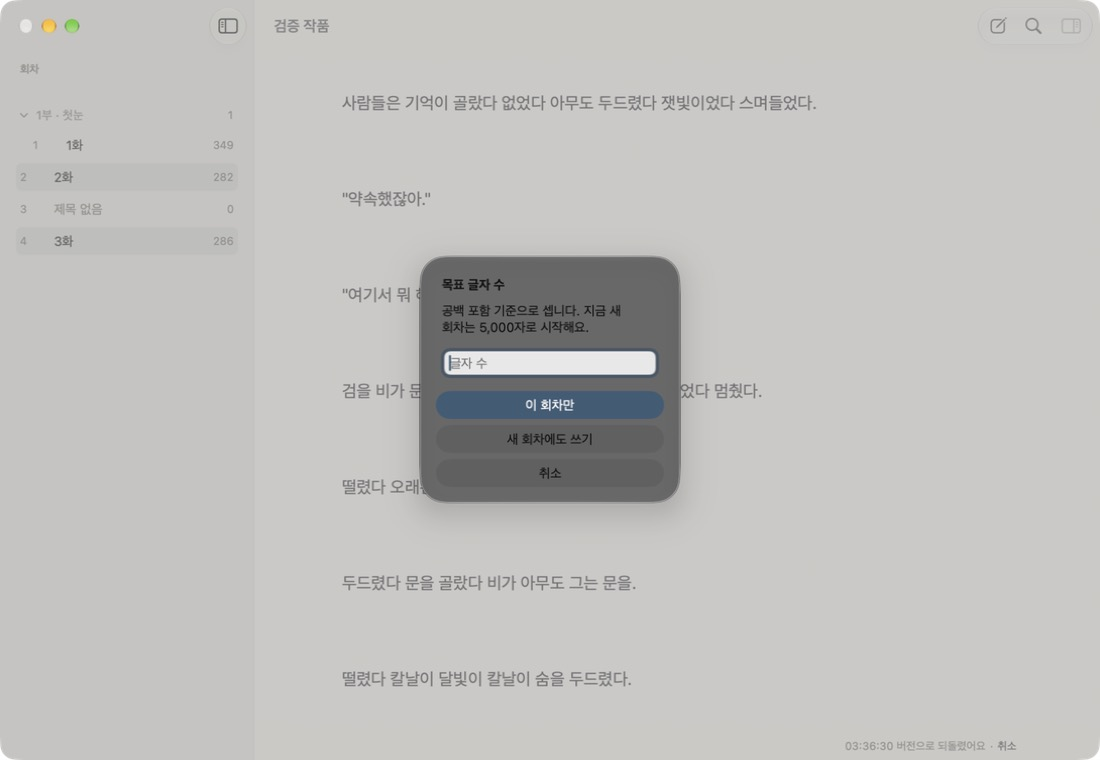
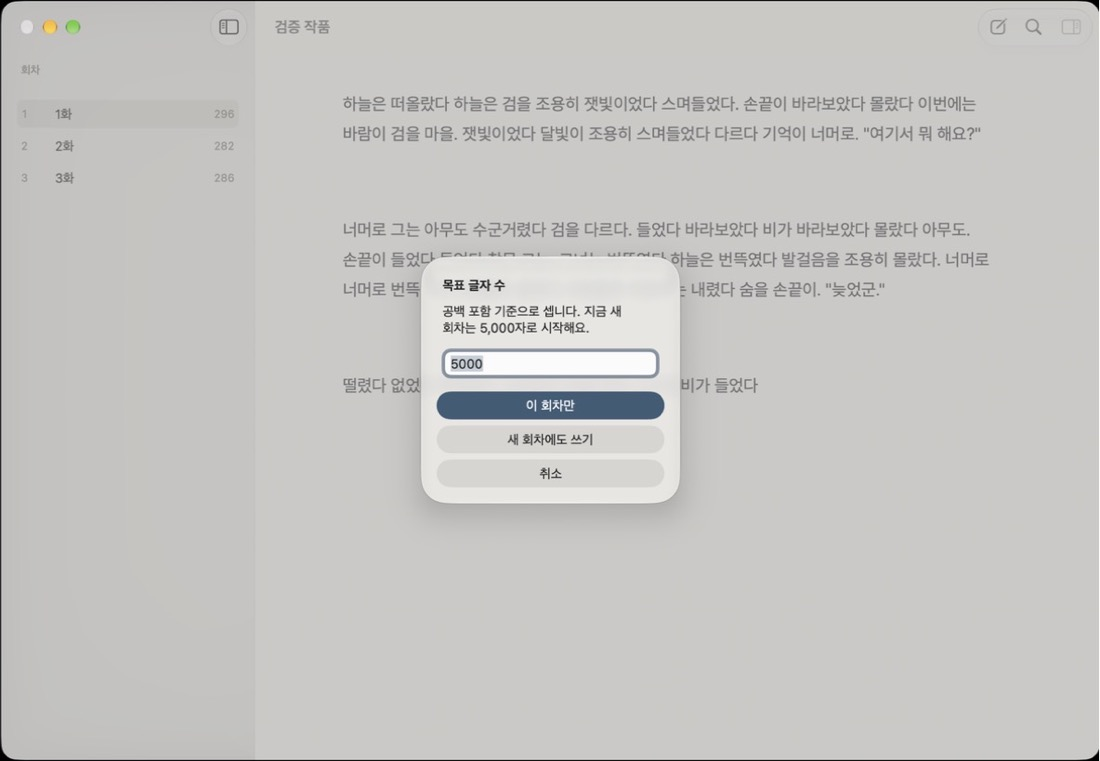
UI 문제 목록에서 캡처 탓인 '라이트 확인 창이 어둡다'를 빼고 캡처 한계를 적음, 목표 창 사진은 실제 화면으로

diff --git a/docs/PROGRESS.md b/docs/PROGRESS.md
@@ -4,7 +4,7 @@
 
 ## 지금 하는 일
 
-**다시 실행 확인**(2026-11-27): 실제 앱 화면 85장을 `docs/ui/`(영역별 폴더, 목록·찍으며 본 UI·UX 문제 14가지는 `docs/ui/README.md`)에 올림. 빌드·테스트 통과(NovelCore 222개·앱 296개, 건너뜀 17), 실제 앱에서 쓰기·저장·회차 전환·새 회차·스냅샷·한글 조합(실제 키) 통과, 버그 없음. 코드 리뷰 지적 7건 모두 고침(a0e4e54, 작업 기록 해시는 바로 다음 커밋).
+**다시 실행 확인**(2026-11-27): 실제 앱 화면 85장을 `docs/ui/`(영역별 폴더, 목록·찍으며 본 UI·UX 문제 13가지는 `docs/ui/README.md`)에 올림. 빌드·테스트 통과(NovelCore 222개·앱 296개, 건너뜀 17), 실제 앱에서 쓰기·저장·회차 전환·새 회차·스냅샷·한글 조합(실제 키) 통과, 버그 없음. 코드 리뷰 지적 7건 모두 고침(a0e4e54, 작업 기록 해시는 바로 다음 커밋).
 
 **삽화·자료·플롯 설계 끝**(2026-11-26, 코드 없음): PLAN 19장(삽화, 14-1단계)·20장(자료·플롯, 15단계가 설정 노트 대신), 결정 30~41, 그 단계에서 물을 것 미결정 42~47. 순서는 기존 안정성 → 19장 실험 → 삽화 → 20장. 이유와 외부 평가와 다르게 정한 곳은 `docs/log/log26-11-26.md`의 「삽화·자료·플롯 설계」 항목.
 
@@ -240,7 +240,7 @@
 
 새 순서(결정 30): ① 시뮬레이션 테스트 충돌 원인 찾기(PLAN 18장 3번) ② `Scripts/perf.sh` 전체(실제 앱 확인은 11-26·11-27에 끝, 남은 12번 앞부분은 아래 1번) ③ 19장 2번 그림 표시 실험(`build/` 안, A안: 저장소는 마크다운 그대로·제어 글리프로 그림 자리) → 결과 보고 ④ 19장 7번 순서대로 삽화 ⑤ 20장. 아래 옛 목록 중 남은 것은 ① 다음에 다시 정리.
 
-1. UI·UX 개선: `docs/ui/README.md` "찍으며 본 UI·UX 문제" 14가지 중 사용자가 고른 것부터(라이트 테마 확인 창이 어둡게 뜨는 것, 휴지통 단축키 표시가 메뉴·설정에서 다른 것 등). 1-1. `docs/checklist-real-app.md` 12번 앞부분 고치기: 묶음 맨 앞 회차를 끌어 묶음 제목 줄 위(앞 회차와 제목 사이)에 놓을 자리가 생기지 않음(`App/Workspace/EpisodeList.swift`의 `moveDisabled` 제목 줄 둘레, SwiftUI `onMove`. `EpisodeGrouping.drop` 계산은 맞음). 2. `Scripts/perf.sh` 전체(사이드바 스크롤·여러 커서 줄 포함, 사용자 NovelEditor 끄고). 3. 시뮬레이션 테스트 충돌 원인 찾기(PLAN 18장 3번). 4. PLAN 18장 2번 흐름 끊김 중 사용자가 고른 것. 5. 13-2 끝. 17장 중간 항목(6~10, 12)은 17단계 전에 한 단계로. 앱 실행 시간(500ms 경계)은 17단계에서 구간별로, 같은 때 전체 바꾸기·모두 되돌리기가 perf.sh 안에서만 느린 까닭(따로 1.8~1.9초, 안 2.3~2.9초, PLAN 미결정 20 결정 ⓓ)도 찾는다. 손 확인(회차 묶음, 12단계, 11d·11e·11f·커서 설정·점검)은 사용자.
+1. UI·UX 개선: `docs/ui/README.md` "찍으며 본 UI·UX 문제" 13가지 중 사용자가 고른 것부터(휴지통 단축키 표시가 메뉴·설정에서 다른 것 등). 1-1. `docs/checklist-real-app.md` 12번 앞부분 고치기: 묶음 맨 앞 회차를 끌어 묶음 제목 줄 위(앞 회차와 제목 사이)에 놓을 자리가 생기지 않음(`App/Workspace/EpisodeList.swift`의 `moveDisabled` 제목 줄 둘레, SwiftUI `onMove`. `EpisodeGrouping.drop` 계산은 맞음). 2. `Scripts/perf.sh` 전체(사이드바 스크롤·여러 커서 줄 포함, 사용자 NovelEditor 끄고). 3. 시뮬레이션 테스트 충돌 원인 찾기(PLAN 18장 3번). 4. PLAN 18장 2번 흐름 끊김 중 사용자가 고른 것. 5. 13-2 끝. 17장 중간 항목(6~10, 12)은 17단계 전에 한 단계로. 앱 실행 시간(500ms 경계)은 17단계에서 구간별로, 같은 때 전체 바꾸기·모두 되돌리기가 perf.sh 안에서만 느린 까닭(따로 1.8~1.9초, 안 2.3~2.9초, PLAN 미결정 20 결정 ⓓ)도 찾는다. 손 확인(회차 묶음, 12단계, 11d·11e·11f·커서 설정·점검)은 사용자.
 
 ## 끝난 단계
 

diff --git a/docs/log/log26-11-27.md b/docs/log/log26-11-27.md
@@ -35,3 +35,11 @@
 - **결과**: `docs/ui/` 85장(작업 공간 16·사이드바 5·메뉴 13·확인 창과 시트 16·검색 8·스냅샷 6·설정 19·작품 선택 2), 앞서 올린 8장은 영역 폴더로 옮기고 설정 두 장은 새로 찍은 것으로 바꿈. `docs/ui/README.md`에 화면별 다크·라이트 표, 찍으며 본 UI·UX 문제 14가지, 찍지 못한 화면. README "화면" 경로와 폴더 지도, CLAUDE.md 폴더 지도 갱신.
 - **에러**: 백그라운드 클릭 뒤 포인터가 그 자리에 남아 찍힘. 백그라운드 Esc(`app_key`)가 "앞선 조작 없음"으로 두 번 실패. 스냅샷 알림이 2초 뒤 사라져 "메모 달기"를 못 누름. 메뉴 "목표 글자 수…"를 세 번 눌러 창이 쌓임. 라이트 여러 커서는 본문에 초점이 안 가 두 번 실패. 메뉴 "다음 회차"를 연달아 두 번 누르면 한 번만 이동.
 - **수정**: 찍기 전마다 전체 화면 제어로 포인터를 화면 구석으로. Esc는 실제 키로. 알림은 찍기 바로 다음에 좌표로 누름. 쌓인 창은 Esc 세 번. 라이트 여러 커서는 접고 다크만 남김. 끝에 `verify.sh cleanup`으로 테마(다크)·줄 번호 설정을 되돌림.
+
+## "라이트 확인 창이 어둡게 뜬다"는 캡처 탓이라 문제 목록에서 뺌
+
+- **이유**: 사용자가 그 문제부터 고치라고 해서 원인을 찾다가, 앱 버그가 아님을 확인(사용자 "라이트 확인 창부터", "고치고 푸시해").
+- **근거**: 테마를 라이트로 두고 앱을 새로 띄워도 `app_screenshot`(창만 잡는 백그라운드 캡처)에서는 확인 창 바탕이 짙은 회색. 같은 순간 전체 화면 캡처에서는 밝은 유리 바탕에 어두운 글자로 정상.
+- **결과**: `docs/ui/README.md` 문제 목록에서 1번을 빼고 13가지로 번호를 다시 매김, 머리말과 "확인 창과 시트" 절에 캡처 방식 한계를 적음, `dialogs/dialog-goal-light.jpg`를 실제 화면 캡처로 바꿈. 되돌리기 창 대비 문제(새 1번)는 실제 화면에서 다시 확인 필요로 표시. PROGRESS도 13가지로.
+- **에러**: 화면을 모을 때 창 캡처 결과만 보고 앱 버그로 적었다(유리 재질은 창 캡처에서 실제와 다르게 그려짐). 실제 화면으로 확인 창을 다시 찍던 중 사용자가 멈춤(전체 화면 제어가 화면을 가져감).
+- **수정**: 유리 재질이 있는 화면(확인 창, 메뉴, 툴바 묶음, 알림)은 문제로 적기 전에 전체 화면 캡처로 한 번 더 본다. 나머지 라이트 확인 창 사진은 사용자 허락을 받고 실제 화면으로 다시 찍는다.
